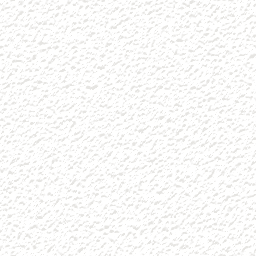
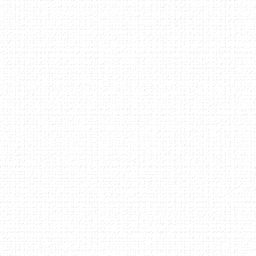
Shift light palette cooler; rebuild texture as fine woven paper
Two changes to the Field Journal theme.

Palette shifted cooler and brighter to match the reference photos. All
seven paper values move together — page, card, the two translucent
surface tints, navbar, card fill and artwork slots — because they are the
same stock at different opacities and drift apart visibly if shifted
piecemeal. The sepia ink and card shadow were mixed against warm cream
and read muddy on the cooler ground, so both are nudged greyer. Accent
greens are the botanical identity and are unchanged.

Texture rebuilt as fine-grain hot-press stock: a tight canvas-like weave
of warp and weft threads, replacing the chunky cold-press nodules.

Warp and weft are weighted equally and the light is balanced between
both axes. An uneven over/under split (0.62/0.38) plus a top-down light
made the weave read as fine horizontal ruling rather than cloth.

diff --git a/src/index.css b/src/index.css
@@ -29,14 +29,14 @@
 
   /* Botanical field-journal palette: warm pressed-paper ground, sepia ink,
      sage and forest green accents in place of the dark theme's violet. */
-  --bg-page: #f2ede1;
-  --bg-card: #faf6ec;
+  --bg-page: #f7f5f0;
+  --bg-card: #fcfbf7;
   --color-base: #2f3328;
 
   /* Ink colours used by the paper/pen-stroke treatments below */
   --ink-primary:  #3a3f32;  /* graphite body text */
   --ink-muted:    #6b7159;  /* faded pencil */
-  --ink-sepia:    #8a7a5c;  /* handwritten annotation */
+  --ink-sepia:    #847961;  /* handwritten annotation */
   --rule-line:    rgba(122, 131, 102, 0.16);
 
   /* Accent scale → green. These override the violet/fuchsia/indigo tokens
@@ -174,23 +174,17 @@ main,
   color: #111111;
 }
 
-/* Paper ground: cold-press watercolour stock — an even field of soft
-   rounded nodules.
+/* Paper ground: fine-grain (hot-press) watercolour stock — a tight
+   canvas-like weave of fine warp and weft threads.
 
-   The tile stores lit RELIEF, not flat speckle: each bump carries a paired
-   highlight and shadow derived from the height field's gradient, which is
-   what makes it read as a physical dimpled surface. Nodule centres sit on a
-   jittered grid (pure random clumps into visible streaks) and the light is
-   near top-down (a 45-degree light bakes in a diagonal grain).
+   The tile stores lit RELIEF, not flat speckle: thread crossings carry a
+   paired highlight and shadow derived from the height field's gradient,
+   which is what makes it read as woven cloth. Warp and weft are weighted
+   equally and the light is balanced between both axes — favouring either
+   direction turns the weave into fine horizontal ruling.
 
    No ruling, no foxing, no low-frequency mottling: anything low-frequency or
-   colour-varying reads as mould stains at page scale.
-
-   The weave is a pre-baked seamless 256px tile rather than CSS gradients or
-   an inline SVG feTurbulence filter. Both of those have to be re-rasterised
-   whenever the page composites, which measurably stalls painting (it
-   reliably wedged headless screenshot capture) and costs real users frame
-   time for no visual gain over a tiling bitmap. */
+   colour-varying reads as mould stains at page scale. */
 [data-theme="light"] body,
 [data-theme="light"] #root {
   background-color: var(--bg-page);
@@ -245,18 +239,18 @@ main,
 }
 
 /* Backgrounds — translucent paper tint, not grey */
-[data-theme="light"] .bg-white\/5  { background-color: rgba(255, 252, 243, 0.62) !important; }
-[data-theme="light"] .bg-white\/10 { background-color: rgba(255, 252, 243, 0.85) !important; }
+[data-theme="light"] .bg-white\/5  { background-color: rgba(255, 255, 253, 0.62) !important; }
+[data-theme="light"] .bg-white\/10 { background-color: rgba(255, 255, 253, 0.85) !important; }
 
 /* Cards get a hand-inked edge + a hint of paper lift */
 [data-theme="light"] .rounded-xl.border,
 [data-theme="light"] .rounded-2xl.border {
-  box-shadow: 0 1px 0 rgba(90, 100, 72, 0.10), 0 6px 18px rgba(120, 112, 86, 0.08);
+  box-shadow: 0 1px 0 rgba(90, 100, 72, 0.10), 0 6px 18px rgba(104, 104, 92, 0.08);
 }
 
 /* Navbar — tinted paper with an inked underline */
 [data-theme="light"] header {
-  background: rgba(242, 237, 225, 0.90) !important;
+  background: rgba(247, 245, 240, 0.90) !important;
   border-bottom-color: rgba(90, 100, 72, 0.22) !important;
 }
 
@@ -378,7 +372,7 @@ fill='%236f8a4e' opacity='0.4'/>\
    and a faint drawn rule along the top. */
 [data-theme="light"] .rounded-xl.border,
 [data-theme="light"] .rounded-2xl.border {
-  background-color: rgba(252, 249, 240, 0.72) !important;
+  background-color: rgba(253, 252, 249, 0.72) !important;
 }
 
 /* Filled accent buttons read as ink stamps rather than flat UI chips */
@@ -394,7 +388,7 @@ fill='%236f8a4e' opacity='0.4'/>\
 /* Empty artwork slots read as taped-in specimen placeholders: a dashed
    pencil boundary so they stay visible against the cream paper. */
 [data-theme="light"] #artwork .group {
-  background-color: rgba(250, 246, 234, 0.55) !important;
+  background-color: rgba(252, 251, 247, 0.55) !important;
   border: 1px dashed rgba(107, 113, 89, 0.42) !important;
   box-shadow: none !important;
 }
